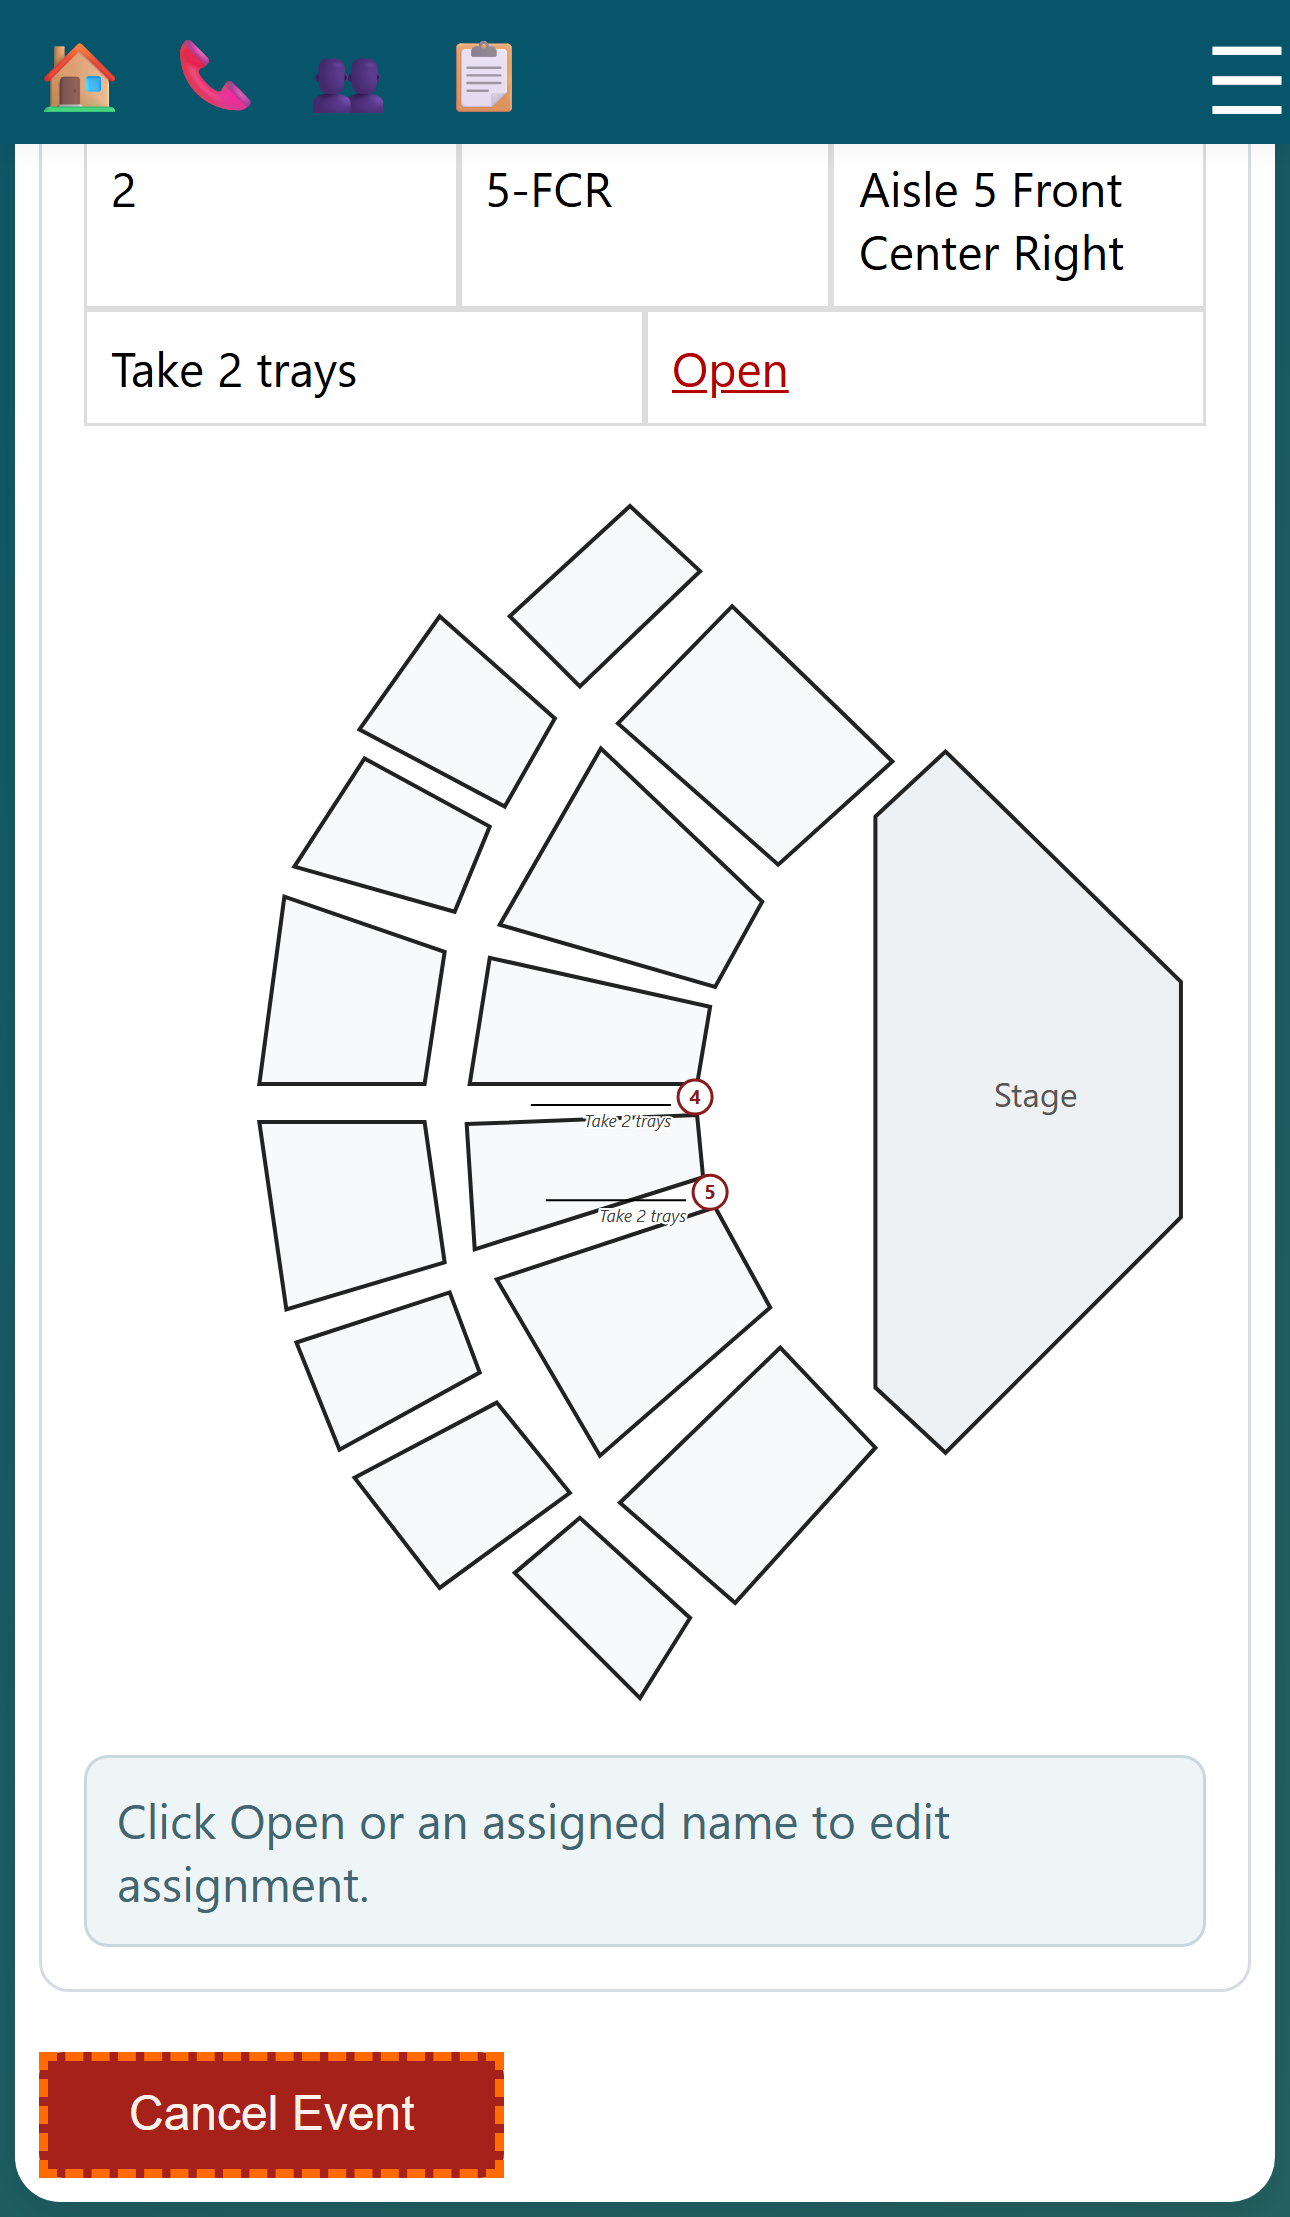
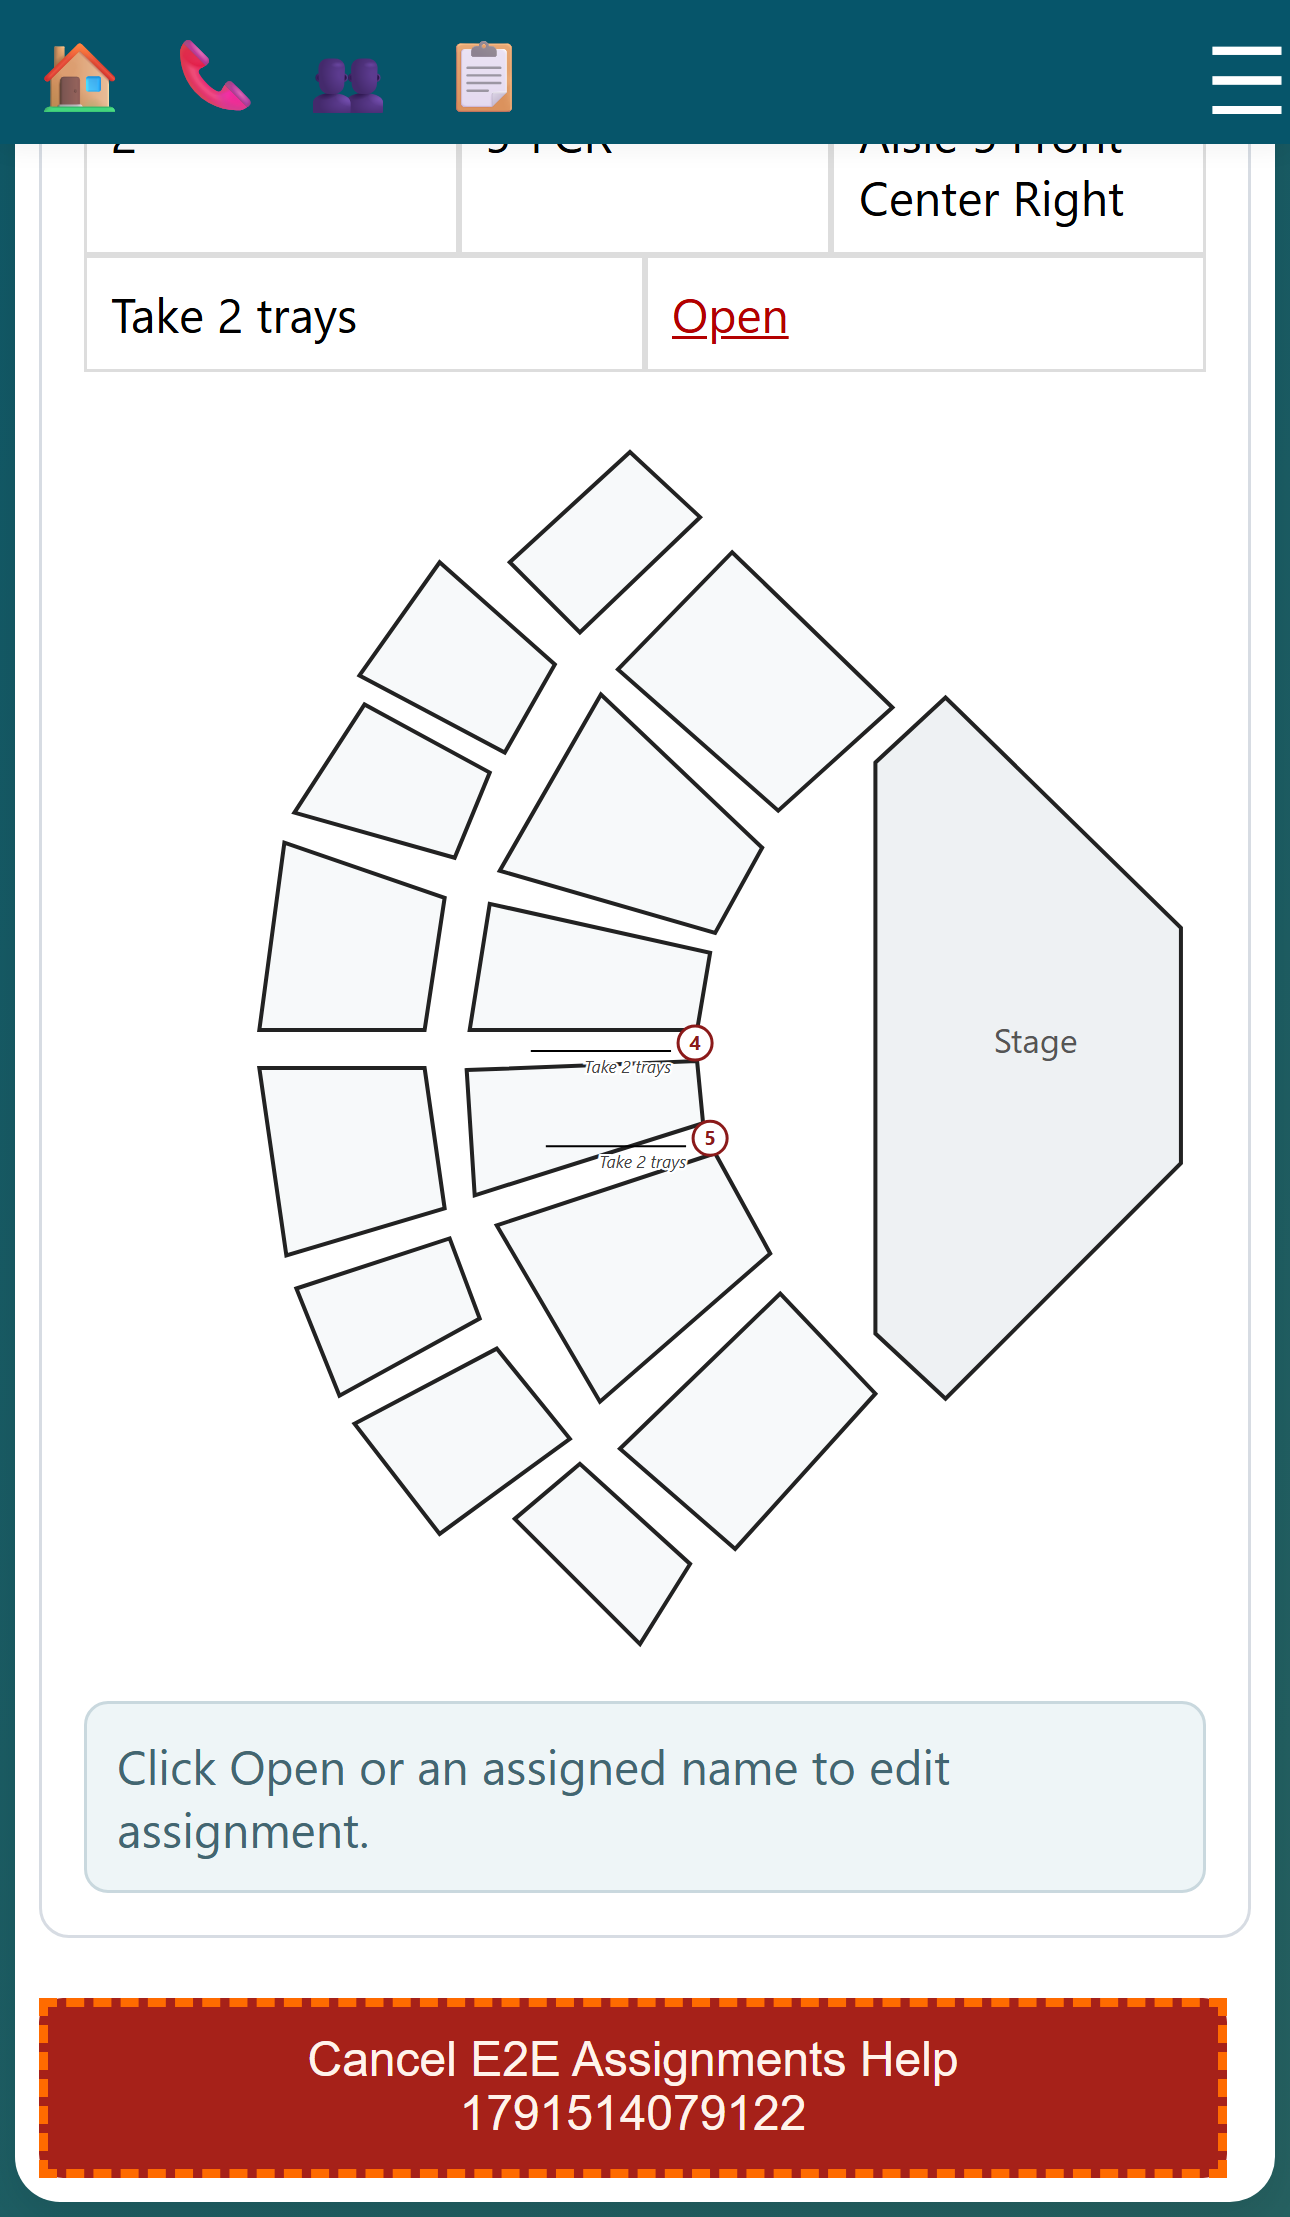
Cancel button per event type, labeled with type name; update help

diff --git a/site/event-assignments-page.js b/site/event-assignments-page.js
@@ -484,24 +484,40 @@ function renderAssignmentBlockWithPositions(event, positions, openPositions, can
   `;
 }
 
-function renderCancelEventButton(events) {
-  const active = (Array.isArray(events) ? events : [events]).filter(event => event && event.isCancelled !== true);
-  if (active.length === 0) {
-    return '';
-  }
+function getEventTypeName(event) {
+  const title = String(event.title || '');
+  const prefix = [event.serviceDate, event.serviceTime].filter(Boolean).join(' ');
+  const stripped = prefix && title.startsWith(`${prefix} `) ? title.slice(prefix.length + 1) : title;
+  return stripped || event.eventType || 'Event';
+}
 
-  const label = active.length === 1
-    ? [active[0].title, [active[0].serviceDate, active[0].serviceTime].filter(Boolean).join(' at ')].filter(Boolean).join(' scheduled for ')
-    : `all ${active.length} events on ${active[0].serviceDate || 'this date'}`;
+function renderCancelEventButtons(events) {
+  const groups = new Map();
+  (Array.isArray(events) ? events : [events])
+    .filter(event => event && event.isCancelled !== true)
+    .forEach(event => {
+      const key = event.eventType || getEventTypeName(event);
+      if (!groups.has(key)) {
+        groups.set(key, []);
+      }
+      groups.get(key).push(event);
+    });
 
-  return `<button
+  return Array.from(groups.values()).map(group => {
+    const typeName = getEventTypeName(group[0]);
+    const serviceDate = group[0].serviceDate || '';
+    const times = group.map(event => event.serviceTime).filter(Boolean).join(', ');
+    const label = `${typeName}${serviceDate ? ` on ${serviceDate}` : ''}${times ? ` (${times})` : ''}`;
+
+    return `<button
     type="button"
     class="btn cancel-event-button"
-    data-event-ids="${escapeHtml(active.map(event => event._id).join(','))}"
-    data-cancel-label="${escapeHtml(label || 'this event')}"
-    data-service-date="${escapeHtml(active[0].serviceDate || '')}"
-    style="background:#9f1c1c;"
-  >Cancel Event</button>`;
+    data-event-ids="${escapeHtml(group.map(event => event._id).join(','))}"
+    data-cancel-label="${escapeHtml(label)}"
+    data-service-date="${escapeHtml(serviceDate)}"
+    style="background:#9f1c1c; margin-right:8px;"
+  >Cancel ${escapeHtml(typeName)}</button>`;
+  }).join('');
 }
 
 function wireCancelEventButtons() {
@@ -612,7 +628,7 @@ async function loadAssignmentsForEvent(calendarEventId) {
 
   openPositionsCallout.innerHTML = '';
   assignmentsTableWrap.innerHTML = renderAssignmentBlock(event, openPositions, canManage, assignmentCandidates);
-  eventActions.innerHTML = canManage ? renderCancelEventButton(event) : '';
+  eventActions.innerHTML = canManage ? renderCancelEventButtons(event) : '';
   wireCancelEventButtons();
   if (canManage) {
     wireAssignmentEditTriggers();
@@ -657,7 +673,7 @@ async function loadAssignmentsForDate(date) {
     ))
     .join('');
 
-  eventActions.innerHTML = renderCancelEventButton(
+  eventActions.innerHTML = renderCancelEventButtons(
     validEvents.filter(item => item.canManageAssignments === true).map(item => item.event)
   );
   wireCancelEventButtons();

diff --git a/test/e2e/specs/event-assignments-page.spec.js b/test/e2e/specs/event-assignments-page.spec.js
@@ -20,7 +20,7 @@ test.describe('event assignments page (site-only)', () => {
 
     await page.goto(`/event-assignments.html?eventId=${encodeURIComponent(seed.deniedEventId)}`);
     await expect(page.locator('#assignmentsTableWrap')).toBeVisible();
-    await expect(page.getByRole('button', { name: 'Cancel Event' })).toHaveCount(0);
+    await expect(page.locator('.cancel-event-button')).toHaveCount(0);
   });
 
   test('date view shows a single Cancel Event button for all events', async ({ page }) => {
@@ -29,7 +29,8 @@ test.describe('event assignments page (site-only)', () => {
 
     await page.goto(`/event-assignments.html?serviceDate=${encodeURIComponent(seed.serviceDate)}`);
     await expect(page.locator('#assignmentsTableWrap')).toBeVisible();
-    await expect(page.getByRole('button', { name: 'Cancel Event' })).toHaveCount(1);
+    await expect(page.locator('.cancel-event-button')).toHaveCount(1);
+    await expect(page.locator('.cancel-event-button')).toHaveText(`Cancel ${seed.title}`);
   });
 
   test('staff can dismiss then confirm cancelling an event', async ({ page }) => {
@@ -42,7 +43,7 @@ test.describe('event assignments page (site-only)', () => {
     expect(cardsBefore).toBeGreaterThanOrEqual(2);
 
     await page.goto(`/event-assignments.html?eventId=${encodeURIComponent(seed.flowEventId)}`);
-    const cancelButton = page.getByRole('button', { name: 'Cancel Event' });
+    const cancelButton = page.locator('.cancel-event-button');
     await expect(cancelButton).toBeVisible();
 
     page.once('dialog', (dialog) => dialog.dismiss());
@@ -53,7 +54,7 @@ test.describe('event assignments page (site-only)', () => {
     page.once('dialog', (dialog) => dialog.accept());
     await cancelButton.click();
     await expect(page.getByText('Event cancelled.')).toBeVisible();
-    await expect(page.getByRole('button', { name: 'Cancel Event' })).toHaveCount(0);
+    await expect(page.locator('.cancel-event-button')).toHaveCount(0);
 
     await page.goto('/sign-ups.html');
     await expect(page.locator('.signups-event-card', { hasText: seed.title })).toHaveCount(cardsBefore - 1);

diff --git a/test/e2e/screenshots/event-assignments.spec.js b/test/e2e/screenshots/event-assignments.spec.js
@@ -75,7 +75,7 @@ test.describe('event assignments help screenshots', () => {
     await page.goto(`/event-assignments.html?eventId=${encodeURIComponent(created.id)}`);
     await page.waitForLoadState('networkidle');
 
-    const cancelButton = page.getByRole('button', { name: 'Cancel Event' });
+    const cancelButton = page.locator('.cancel-event-button');
     await expect(cancelButton).toBeVisible();
     await highlightElement(page, cancelButton, 'orange');
     await takeHelpScreenshot(page, 'event-assignments-cancel.png');

diff --git a/site/help/behaviors/event-assignments.md b/site/help/behaviors/event-assignments.md
@@ -19,14 +19,14 @@ Use the Event Assignments page to review who is filled, what is still open, and 
 ## Canceling an Event
 
 1. Open the event's assignment view, or open the full service-date view.
-2. Scroll to the bottom of the page. If you have permission, click **Cancel Event** under the assignment sheet. In a service-date view, each event you can manage has its own button.
-3. Confirm cancellation in the prompt. The cancelled event no longer appears in upcoming sign-ups.
+2. Scroll to the bottom of the page. If you have permission, click the red **Cancel <event type name>** button under the assignment sheet (for example, **Cancel Sunday Worship**). In a single-event view it cancels that event. In a service-date view there is one button per event type, and it cancels every service time of that type on that date.
+3. Confirm cancellation in the prompt, which lists the event type, date, and times being cancelled. The cancelled event no longer appears in upcoming sign-ups.
 
-Admins, staff, and event leaders with assignment-management access can cancel events. If you do not see **Cancel Event** and need an event cancelled, contact the event leader or an admin.
+Admins, staff, and event leaders with assignment-management access can cancel events. If you do not see a **Cancel** button and need an event cancelled, contact the event leader or an admin.
 
 Events cannot be moved to a new date. Sign-ups must be completed and confirmed again by everyone for the new date. Ask an event leader or admin to cancel the old event and schedule a new one; everyone must sign up for the new event again.
 
-![Cancel Event button at the bottom of the event assignment page](../images/event-assignments-cancel.png)
+![Cancel button at the bottom of the event assignment page](../images/event-assignments-cancel.png)
 
 For editing assignments or adding new assignment candidates, see the Event Assignments help sections on changing assignments and quick-add.
 

diff --git a/site/help/CAPTURE_GUIDE.md b/site/help/CAPTURE_GUIDE.md
@@ -60,4 +60,4 @@ Do not finish capture work if any output category is non-empty (`missing-desktop
 | sign-ups-availability.png | test/e2e/screenshots/sign-ups.spec.js | Sign Ups page with an upcoming event | Availability buttons |
 | event-schedule-form.png | test/e2e/screenshots/event-schedule.spec.js | Schedule Event form with selected service times | Event type select and service time controls |
 | event-assignments-event.png | test/e2e/screenshots/event-assignments.spec.js | Event Assignments page for a single event | Header and Print button |
-| event-assignments-cancel.png | test/e2e/screenshots/event-assignments.spec.js | Bottom of a single-event assignment page | Cancel Event button |
+| event-assignments-cancel.png | test/e2e/screenshots/event-assignments.spec.js | Bottom of a single-event assignment page | Cancel <event type> button |
